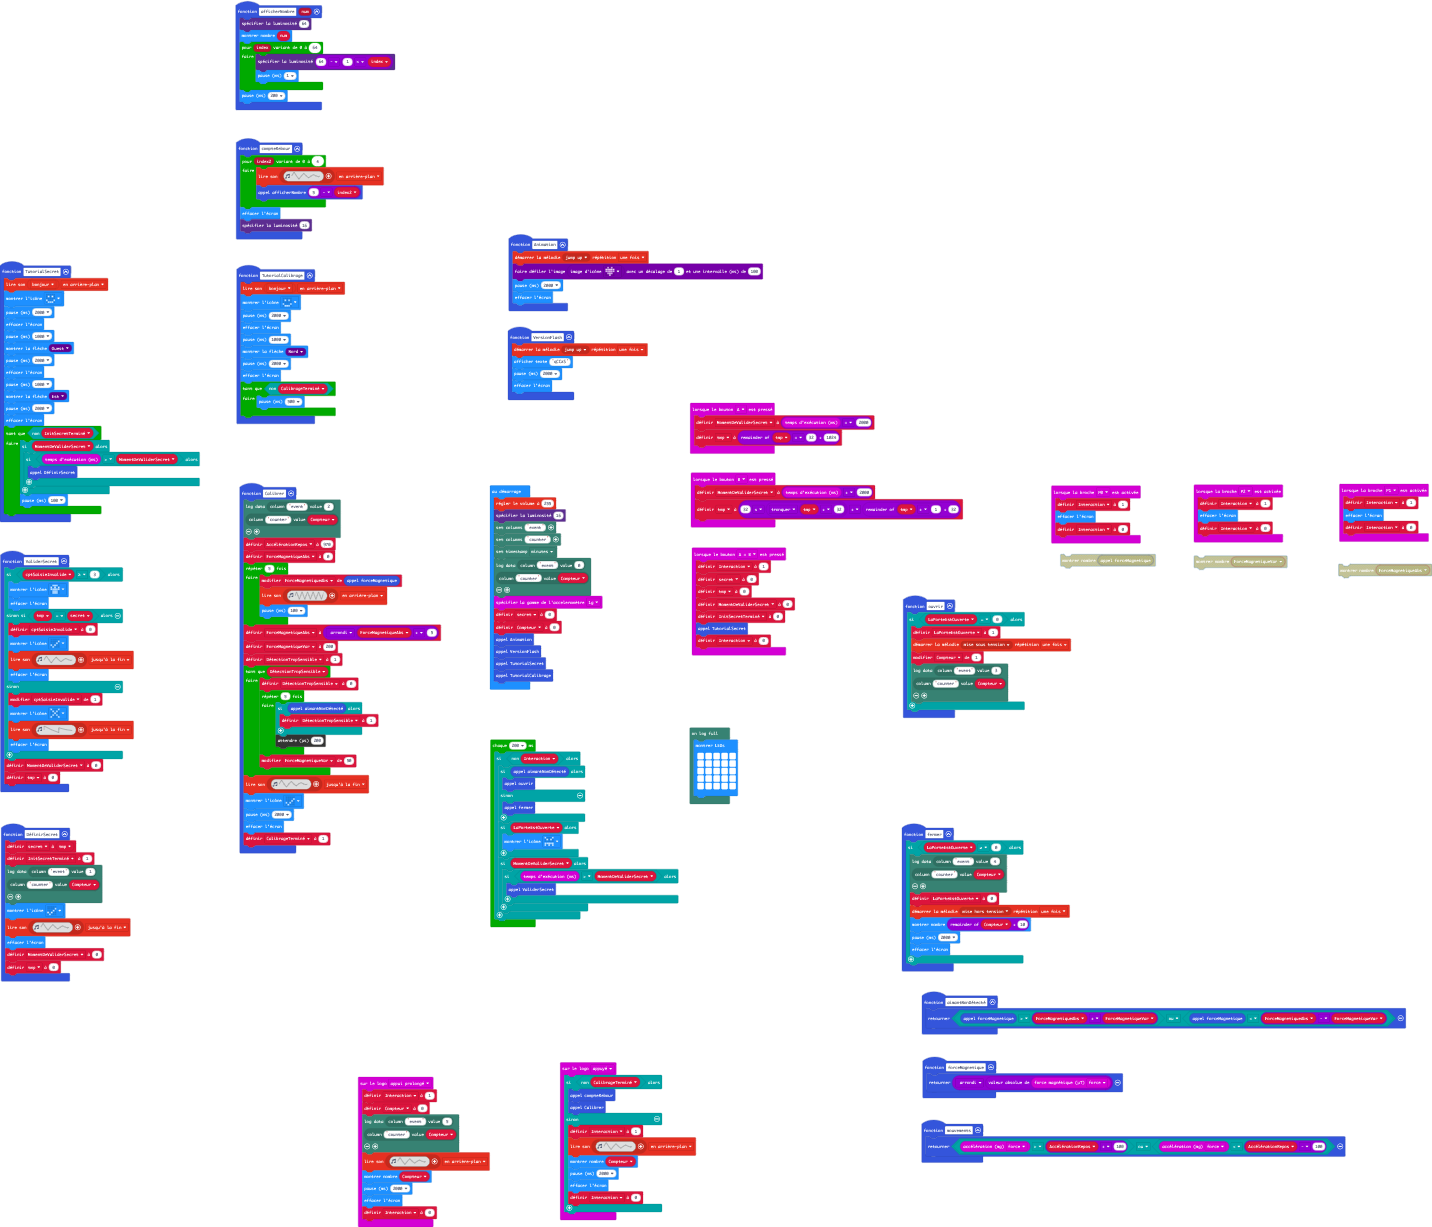
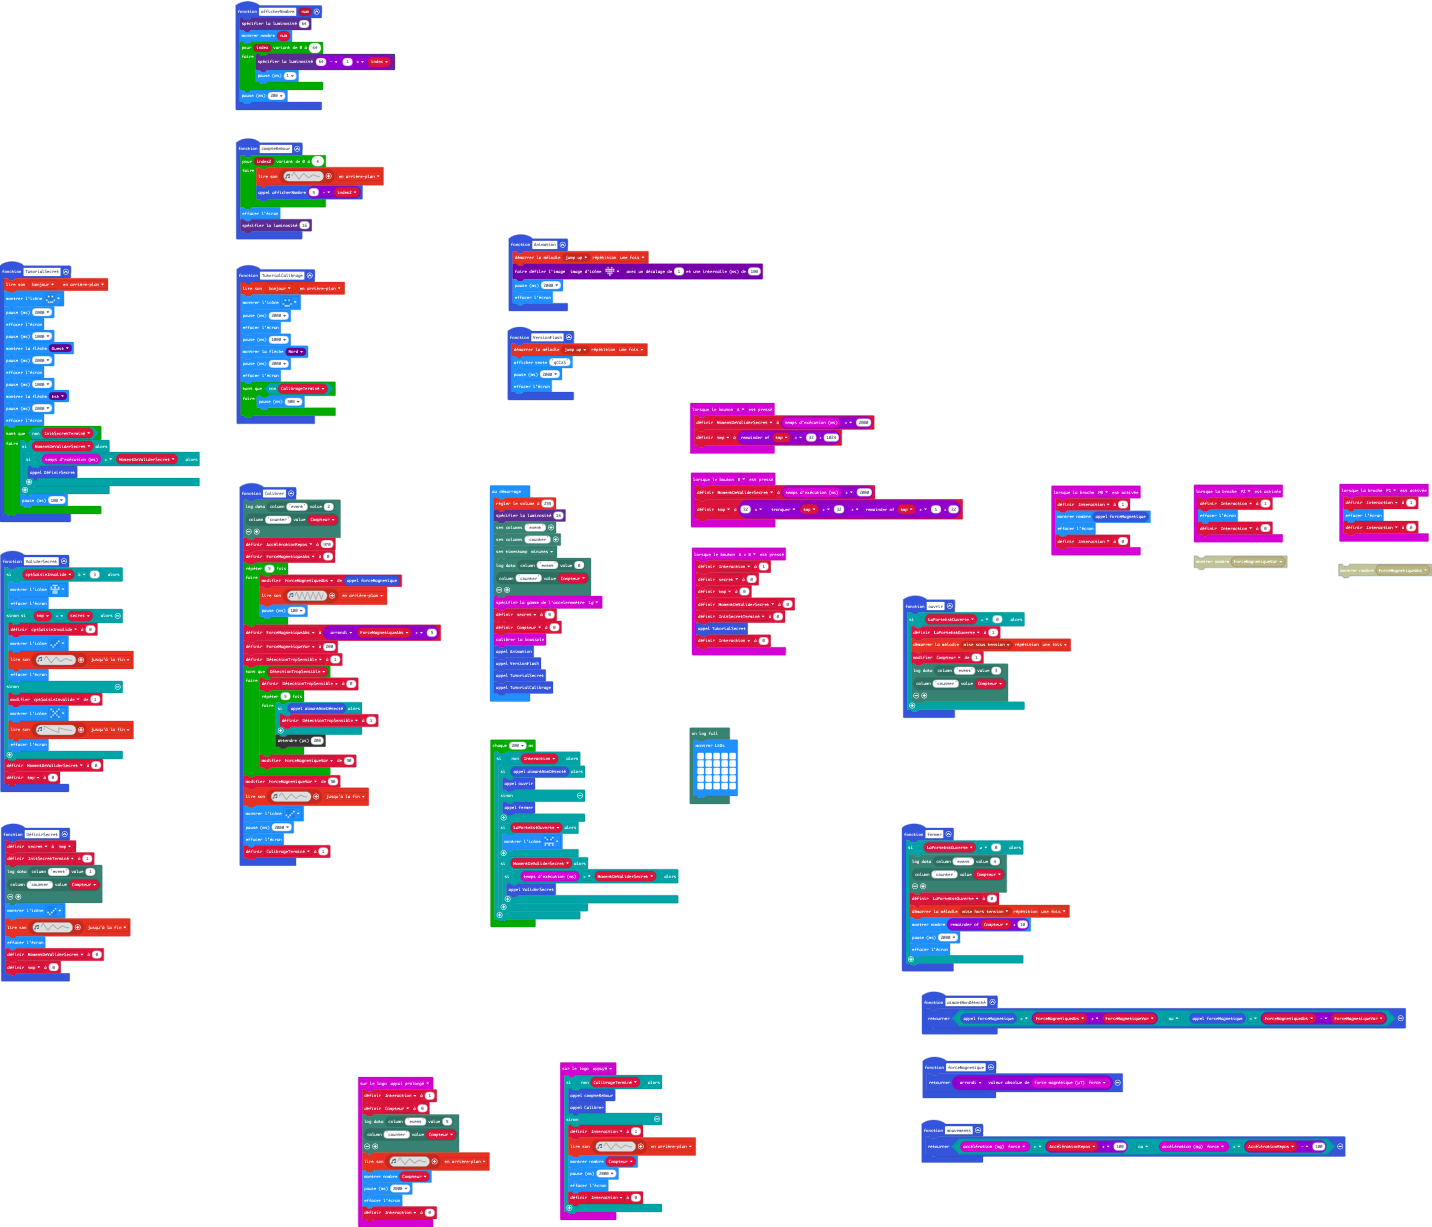
Mise à jour main.blocks, main.ts

diff --git a/main.ts b/main.ts
@@ -1,5 +1,6 @@
 input.onPinPressed(TouchPin.P0, function () {
     Interaction = 1
+    basic.showNumber(forceMagnetique())
     basic.clearScreen()
     Interaction = 0
 })
@@ -197,6 +198,7 @@ function Calibrer () {
         }
         ForceMagnetiqueVar += 50
     }
+    ForceMagnetiqueVar += 50
     music.playSoundEffect(music.createSoundEffect(WaveShape.Triangle, 2112, 2095, 255, 0, 514, SoundExpressionEffect.None, InterpolationCurve.Logarithmic), SoundExpressionPlayMode.UntilDone)
     basic.showIcon(IconNames.Yes)
     basic.pause(2000)
@@ -249,6 +251,7 @@ datalogger.createCV("counter", Compteur)
 input.setAccelerometerRange(AcceleratorRange.OneG)
 secret = 0
 Compteur = 0
+input.calibrateCompass()
 Animation()
 VersionFlash()
 TutorialSecret()
